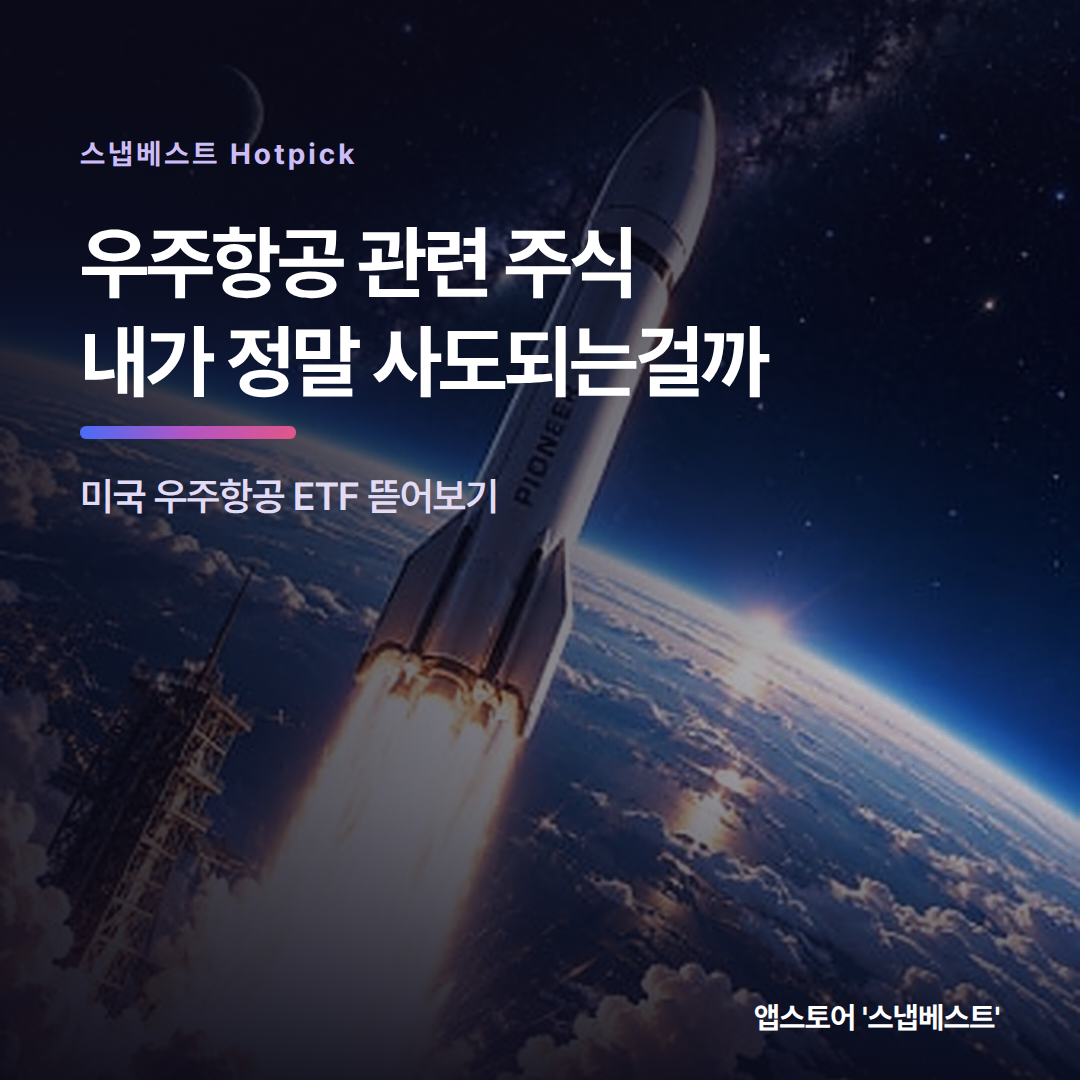
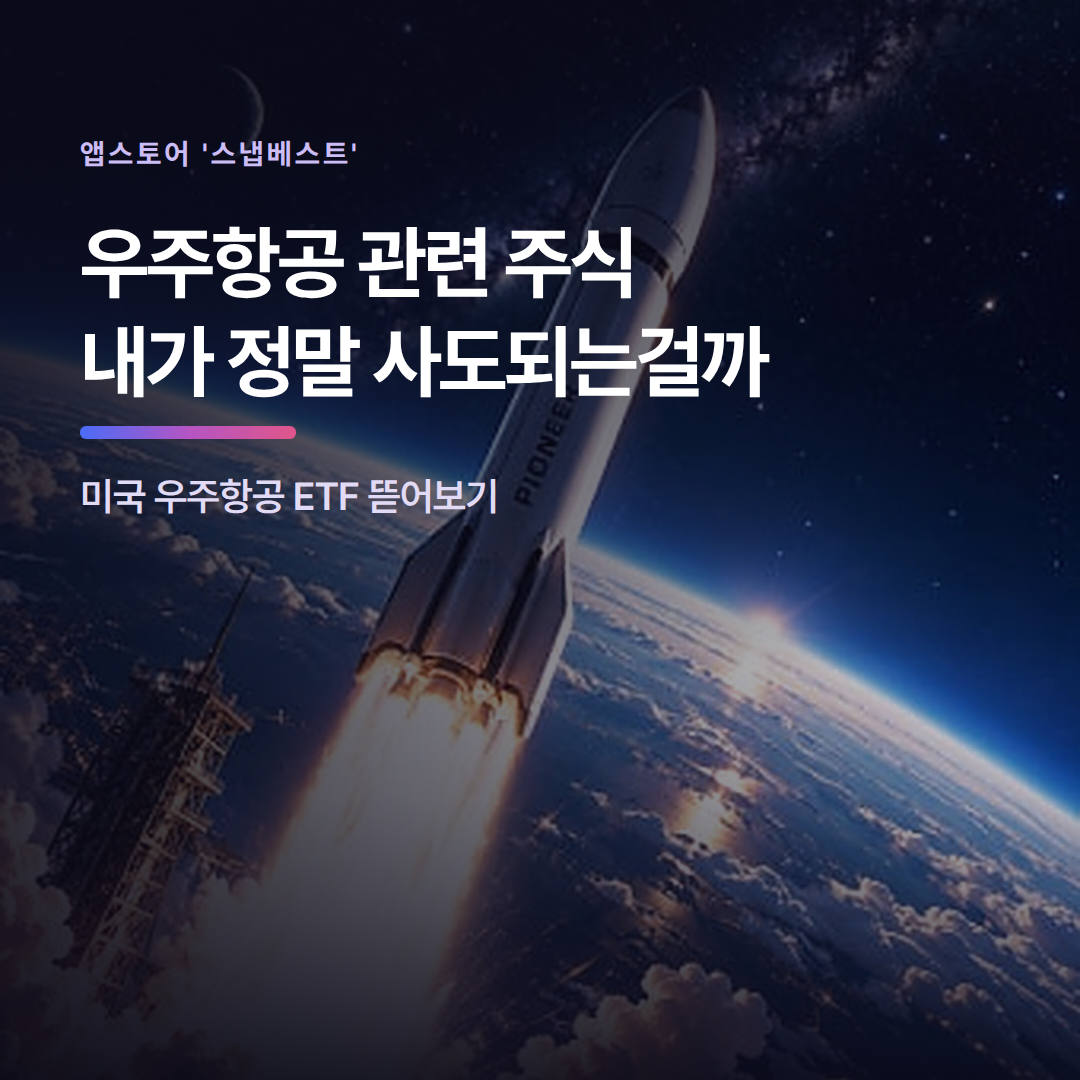
cardnews(thumb): cta 를 빈 문자열로 주면 우하단 문구를 뺀다
종전에는 ``cta or "snapvestai.com"`` 이라 빈 값이 기본 도메인으로
되돌아갔다. None 일 때만 기본값을 쓰고 빈 문자열이면 아예 안 그린다.
우주항공 포스터는 좌상단 한 줄만 남기고 우하단을 비웠다.

Claude-Session: https://claude.ai/code/session_01RMiKh4knUhoRQtbEt8tjeA

Changed region(s): [[0.7028, 0.9167, 0.9167, 0.9778], [0.0611, 0.1222, 0.3361, 0.1528]]

diff --git a/cardnews/thumb.py b/cardnews/thumb.py
@@ -59,9 +59,11 @@ def foot(w, h, note, dark=False, dom_x=None, cta=None):
     if note:
         s += (f'  <text x="{w*0.074:.0f}" y="{y}" font-size="{int(h*0.026)}" font-weight="600" '
               f'letter-spacing="-0.3" fill="{"#A9A0C8" if dark else DIM}">{esc(note)}</text>\n')
-    s += (f'  <text x="{(dom_x if dom_x else w - w*0.074):.0f}" y="{y}" text-anchor="end" font-size="{int(h*0.028)}" '
-          f'font-weight="700" letter-spacing="-0.5" fill="{"#FFFFFF" if dark else "url(#line)"}">{esc(cta or "snapvestai.com")}</text>')
-    return s
+    label = "snapvestai.com" if cta is None else cta
+    if label:
+        s += (f'  <text x="{(dom_x if dom_x else w - w*0.074):.0f}" y="{y}" text-anchor="end" font-size="{int(h*0.028)}" '
+              f'font-weight="700" letter-spacing="-0.5" fill="{"#FFFFFF" if dark else "url(#line)"}">{esc(label)}</text>')
+    return s.rstrip("\n")
 
 
 def bar(x, y, w, h=13):
